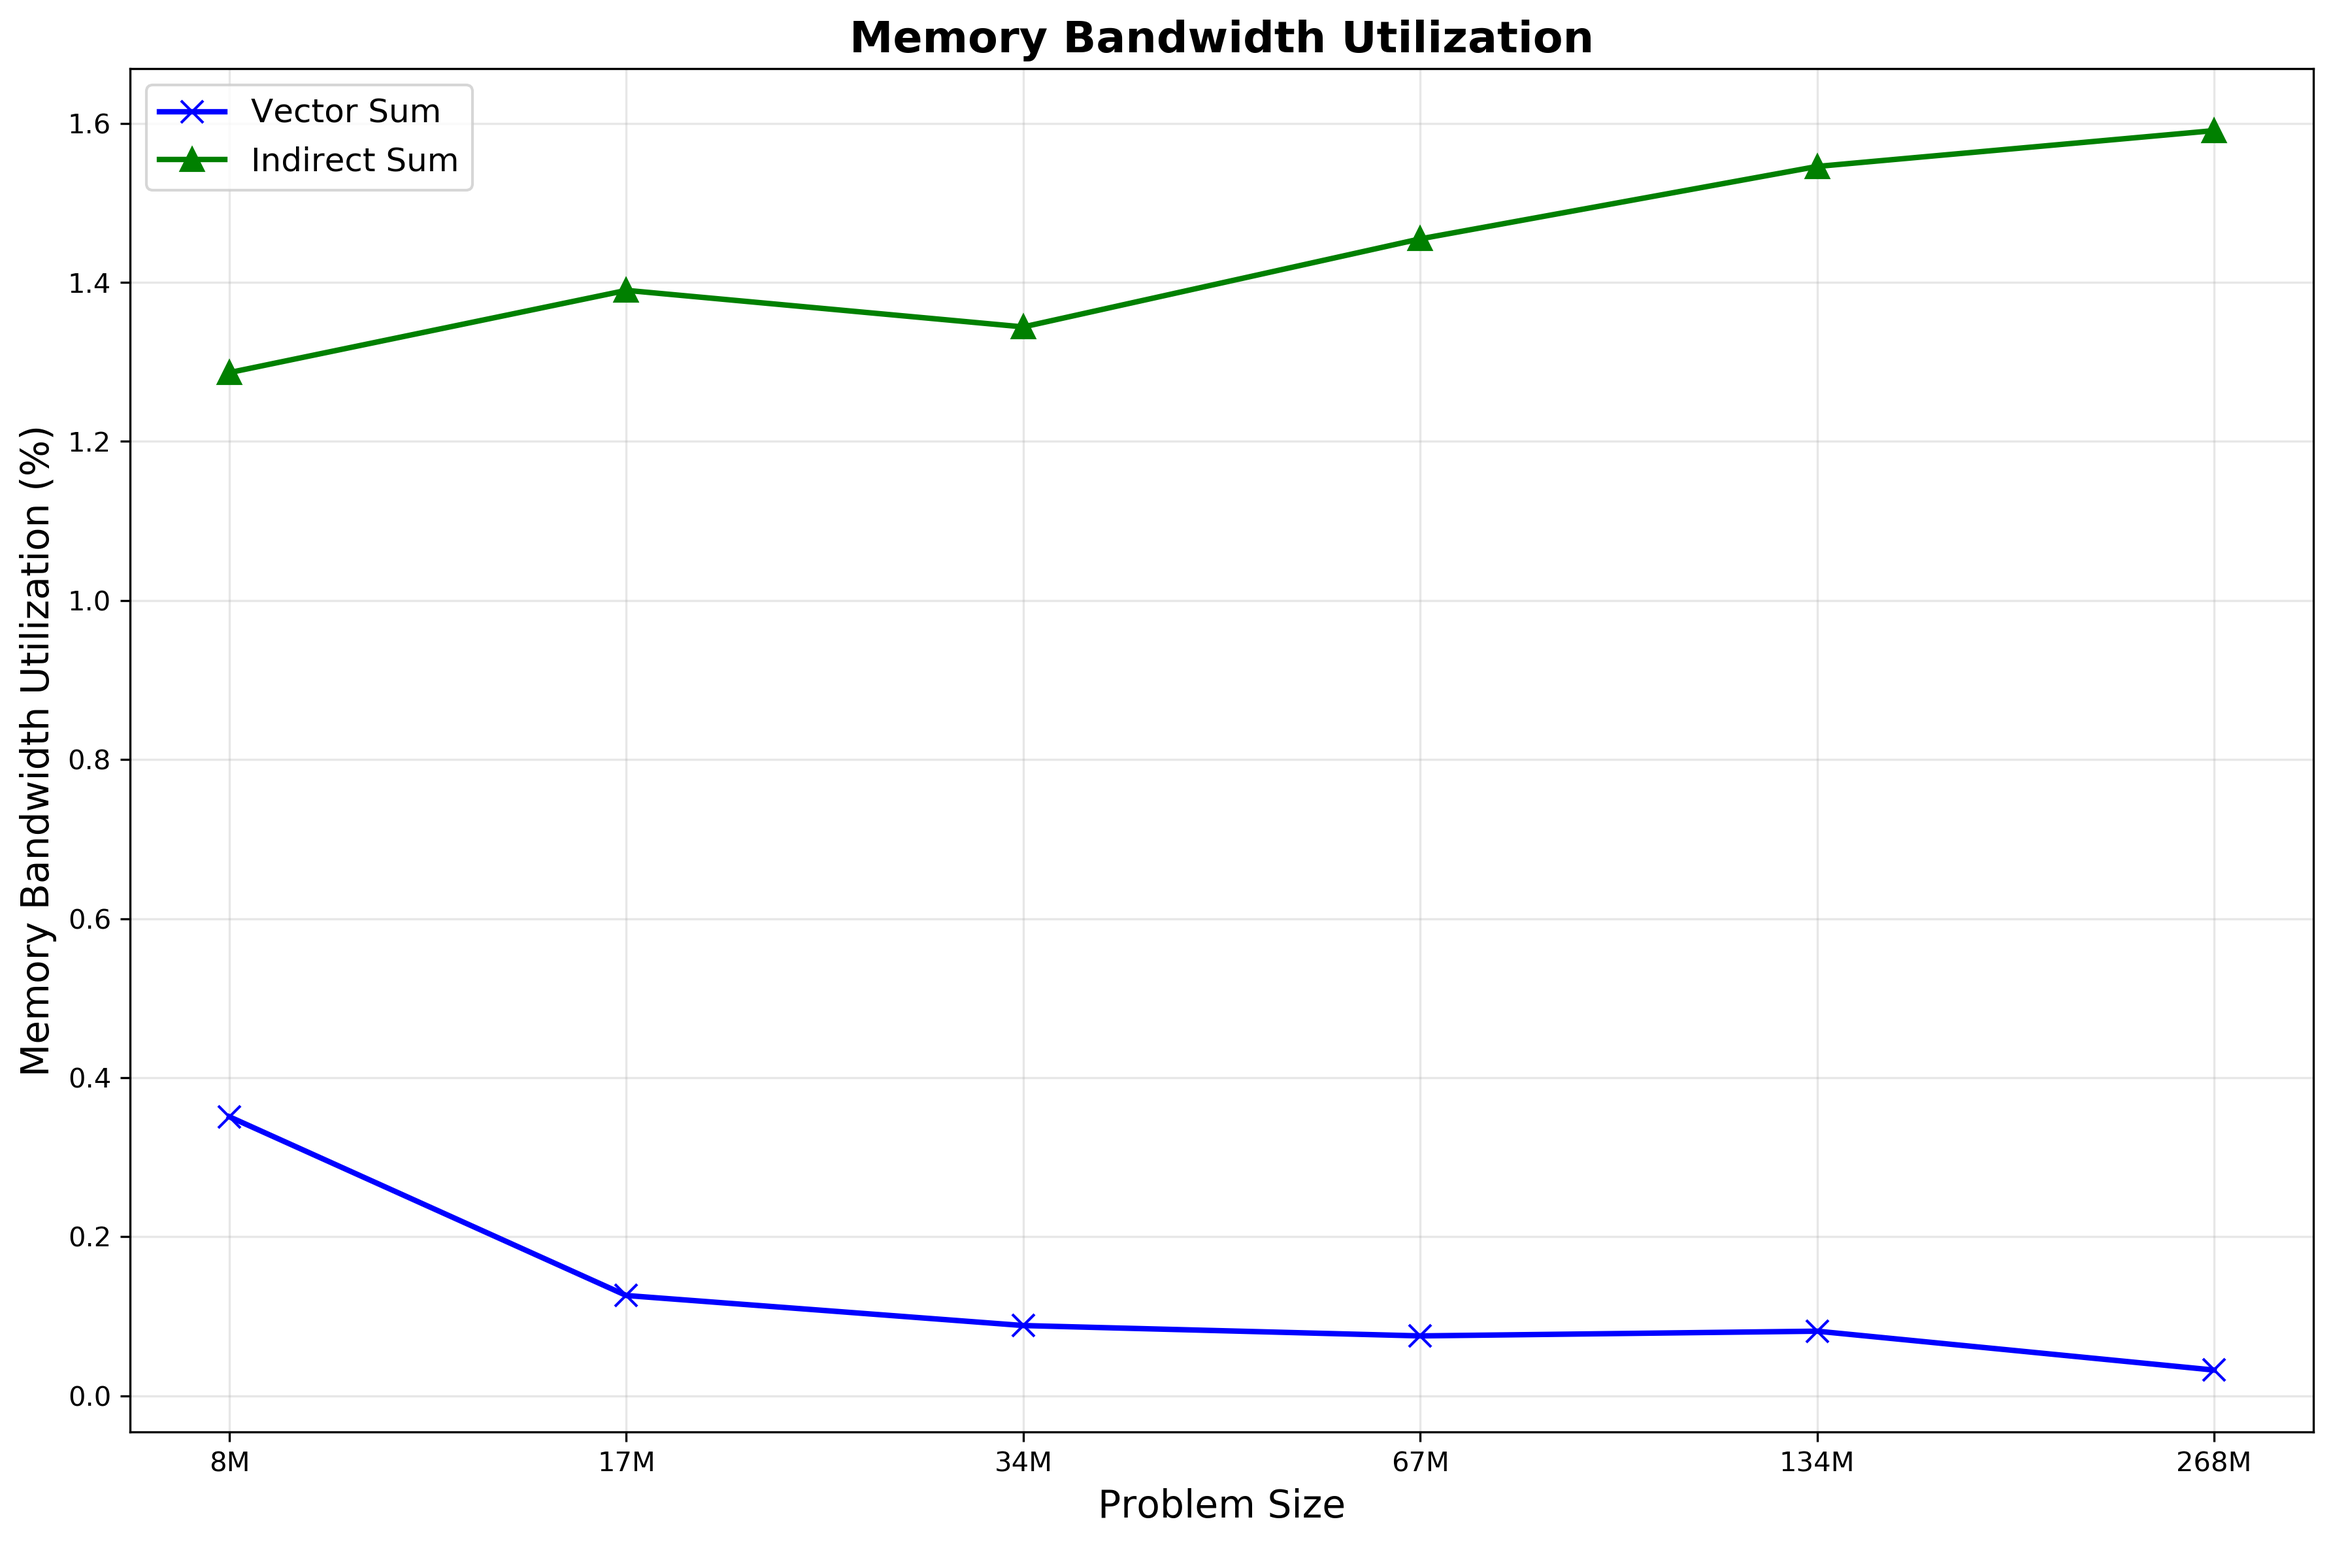
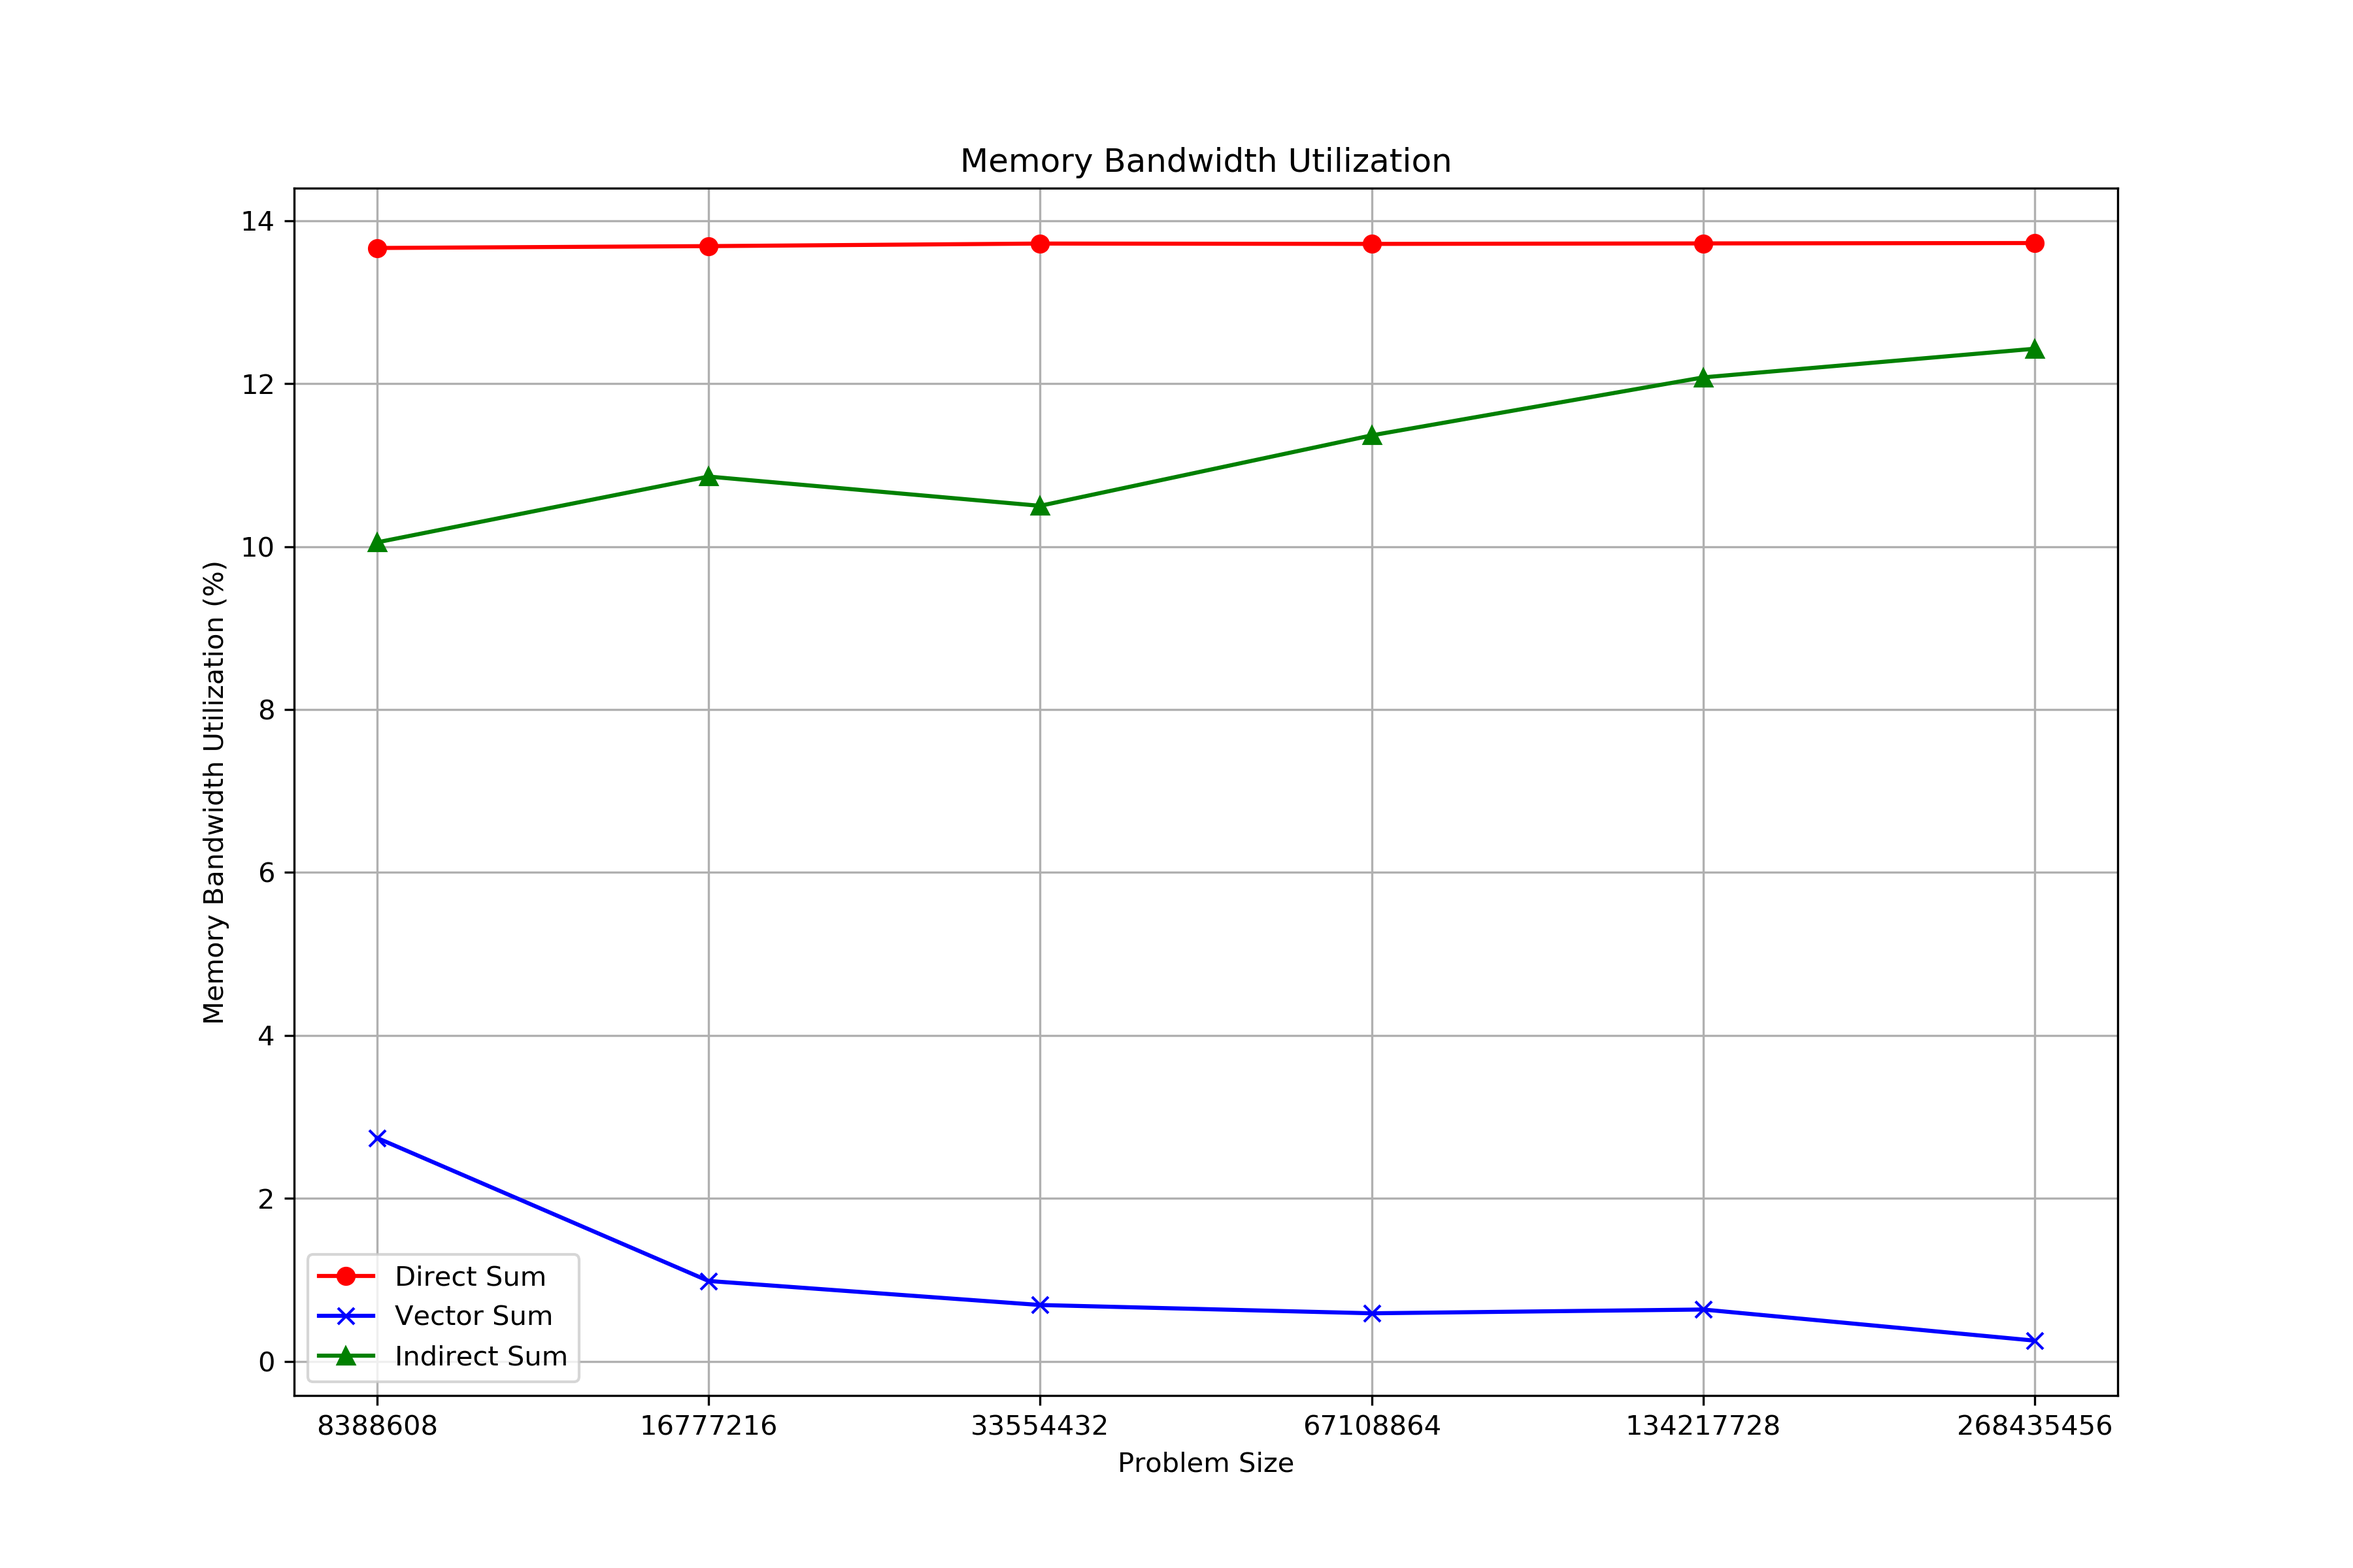
bug

diff --git a/plot_bandwidth.py b/plot_bandwidth.py
@@ -4,10 +4,8 @@ import matplotlib.pyplot as plt
 
 plot_fname = "bandwidth_comparison.png"
 
-# Perlmutter CPU peak memory bandwidth
-peak_bandwidth = 1.6e12  # 1.6 TB/s
+peak_bandwidth = 204800000000  
 
-# Load your actual performance data
 fname = "performance_data.csv"
 df = pd.read_csv(fname, comment="#")
 print(df)
@@ -15,54 +13,49 @@ print(df)
 var_names = list(df.columns)
 print("var names =", var_names)
 
-# Extract data
 problem_sizes = df[var_names[0]].values.tolist()
 direct_times = df[var_names[1]].values.tolist()
 vector_times = df[var_names[2]].values.tolist()
 indirect_times = df[var_names[3]].values.tolist()
 
-# Calculate memory bandwidth utilization (%)
+#calculate memory bandwidth utilization
+direct_bandwidth = []
 vector_bandwidth = []
 indirect_bandwidth = []
 
 for i in range(len(problem_sizes)):
     size = problem_sizes[i]
-    bytes_accessed = size * 8  # 8 bytes per int64_t
+    bytes_accessed = size * 8 
     
-    # Vector sum bandwidth
+    direct_bw = (bytes_accessed / direct_times[i]) / peak_bandwidth * 100
+    direct_bandwidth.append(direct_bw)
+    
     vector_bw = (bytes_accessed / vector_times[i]) / peak_bandwidth * 100
     vector_bandwidth.append(vector_bw)
     
-    # Indirect sum bandwidth
     indirect_bw = (bytes_accessed / indirect_times[i]) / peak_bandwidth * 100
     indirect_bandwidth.append(indirect_bw)
 
 plt.figure(figsize=(12, 8))
 
-# Updated title and labels
-plt.title("Memory Bandwidth Utilization", fontsize=16, fontweight='bold')
+plt.title("Memory Bandwidth Utilization")
 
 xlocs = [i for i in range(len(problem_sizes))]
-plt.xticks(xlocs, [f"{size/1e6:.0f}M" for size in problem_sizes])
+plt.xticks(xlocs, problem_sizes)
 
-# Plot bandwidth utilization
-plt.plot(vector_bandwidth, "b-x", linewidth=2, markersize=8, label="Vector Sum")
-plt.plot(indirect_bandwidth, "g-^", linewidth=2, markersize=8, label="Indirect Sum")
+plt.plot(direct_bandwidth, "r-o", label="Direct Sum")
+plt.plot(vector_bandwidth, "b-x", label="Vector Sum")
+plt.plot(indirect_bandwidth, "g-^", label="Indirect Sum")
 
-plt.xlabel("Problem Size", fontsize=14)
-plt.ylabel("Memory Bandwidth Utilization (%)", fontsize=14)
+plt.xlabel("Problem Size")
+plt.ylabel("Memory Bandwidth Utilization (%)")
 
-# Updated legend
-plt.legend(["Vector Sum", "Indirect Sum"], loc="best", fontsize=12)
 
-plt.grid(axis='both', alpha=0.3)
+plt.legend(["Direct Sum", "Vector Sum", "Indirect Sum"], loc="best")
 
-plt.tight_layout()
-plt.savefig(plot_fname, dpi=300, bbox_inches='tight')
+plt.grid(axis='both')
+
+plt.savefig(plot_fname, dpi=300)
 plt.show()
-
-print("Bandwidth Utilization Results:")
-for i, size in enumerate(problem_sizes):
-    print(f"Size {size/1e6:.0f}M: Vector={vector_bandwidth[i]:.2f}%, Indirect={indirect_bandwidth[i]:.2f}%")
 
 # EOF

diff --git a/plot_mflops.py b/plot_mflops.py
@@ -1,28 +1,9 @@
-"""
-
-E. Wes Bethel, Copyright (C) 2022
-
-October 2022
-
-Description: This code loads a .csv file and creates a 3-variable plot, and saves it to a file named "myplot.png"
-
-Inputs: the named file "sample_data_3vars.csv"
-
-Outputs: displays a chart with matplotlib
-
-Dependencies: matplotlib, pandas modules
-
-Assumptions: developed and tested using Python version 3.8.8 on macOS 11.6
-
-"""
-
 
 import pandas as pd
 import matplotlib.pyplot as plt
 
 plot_fname = "mflops_comparison.png"
 
-# Load your actual performance data
 fname = "performance_data.csv"
 df = pd.read_csv(fname, comment="#")
 print(df)
@@ -30,46 +11,35 @@ print(df)
 var_names = list(df.columns)
 print("var names =", var_names)
 
-# Extract data
 problem_sizes = df[var_names[0]].values.tolist()
 direct_times = df[var_names[1]].values.tolist()
 vector_times = df[var_names[2]].values.tolist()
 indirect_times = df[var_names[3]].values.tolist()
 
-# Calculate MFLOP/s
+#calculate MFLOP/s
 direct_mflops = [(size / 1e6) / time for size, time in zip(problem_sizes, direct_times)]
 vector_mflops = [(size / 1e6) / time for size, time in zip(problem_sizes, vector_times)]
 indirect_mflops = [(size / 1e6) / time for size, time in zip(problem_sizes, indirect_times)]
 
 plt.figure(figsize=(12, 8))
 
-# Updated title and labels
-plt.title("MFLOP/s Performance Comparison", fontsize=16, fontweight='bold')
+plt.title("MFLOP/s Performance Comparison")
 
 xlocs = [i for i in range(len(problem_sizes))]
-plt.xticks(xlocs, [f"{size/1e6:.0f}M" for size in problem_sizes])
+plt.xticks(xlocs, problem_sizes)
 
-# Plot MFLOP/s instead of time
-plt.plot(direct_mflops, "r-o", linewidth=2, markersize=8, label="Direct Sum")
-plt.plot(vector_mflops, "b-x", linewidth=2, markersize=8, label="Vector Sum")
-plt.plot(indirect_mflops, "g-^", linewidth=2, markersize=8, label="Indirect Sum")
+plt.plot(direct_mflops, "r-o", label="Direct Sum")
+plt.plot(vector_mflops, "b-x", label="Vector Sum")
+plt.plot(indirect_mflops, "g-^", label="Indirect Sum")
 
-plt.xlabel("Problem Size", fontsize=14)
-plt.ylabel("MFLOP/s", fontsize=14)
+plt.xlabel("Problem Size")
+plt.ylabel("MFLOP/s")
 
-# Updated legend
-plt.legend(["Direct Sum", "Vector Sum", "Indirect Sum"], loc="best", fontsize=12)
+plt.legend(["Direct Sum", "Vector Sum", "Indirect Sum"], loc="best")
 
-plt.grid(axis='both', alpha=0.3)
-plt.yscale("log")  # Log scale for better visualization
+plt.grid(axis='both')
 
-plt.tight_layout()
-plt.savefig(plot_fname, dpi=300, bbox_inches='tight')
+plt.savefig(plot_fname, dpi=300)
 plt.show()
-
-print("MFLOP/s Results:")
-for i, size in enumerate(problem_sizes):
-    print(f"Size {size/1e6:.0f}M: Direct={direct_mflops[i]:.1f}, Vector={vector_mflops[i]:.1f}, Indirect={indirect_mflops[i]:.1f}")
-
 
 # EOF

diff --git a/plot_latency.py b/plot_latency.py
@@ -4,7 +4,6 @@ import matplotlib.pyplot as plt
 
 plot_fname = "latency_comparison.png"
 
-# Load your actual performance data
 fname = "performance_data.csv"
 df = pd.read_csv(fname, comment="#")
 print(df)
@@ -12,53 +11,47 @@ print(df)
 var_names = list(df.columns)
 print("var names =", var_names)
 
-# Extract data
 problem_sizes = df[var_names[0]].values.tolist()
 direct_times = df[var_names[1]].values.tolist()
 vector_times = df[var_names[2]].values.tolist()
 indirect_times = df[var_names[3]].values.tolist()
 
-# Calculate memory latency (nanoseconds)
+#calculate memory latency
+direct_latency = []
 vector_latency = []
 indirect_latency = []
 
 for i in range(len(problem_sizes)):
     size = problem_sizes[i]
     
-    # Vector sum latency
-    vector_lat = (vector_times[i] / size) * 1e9  # Convert to nanoseconds
-    vector_latency.append(vector_lat)
+    direct_lat = (direct_times[i] / size) * 1e9
+    direct_latency.append(direct_lat)
     
-    # Indirect sum latency
-    indirect_lat = (indirect_times[i] / size) * 1e9  # Convert to nanoseconds
+    vector_lat = (vector_times[i] / size) * 1e9
+    vector_latency.append(vector_lat)
+
+    indirect_lat = (indirect_times[i] / size) * 1e9
     indirect_latency.append(indirect_lat)
 
 plt.figure(figsize=(12, 8))
 
-# Updated title and labels
-plt.title("Memory Latency Comparison", fontsize=16, fontweight='bold')
+plt.title("Memory Latency Comparison")
 
 xlocs = [i for i in range(len(problem_sizes))]
-plt.xticks(xlocs, [f"{size/1e6:.0f}M" for size in problem_sizes])
+plt.xticks(xlocs, problem_sizes)
 
-# Plot latency
-plt.plot(vector_latency, "b-x", linewidth=2, markersize=8, label="Vector Sum")
-plt.plot(indirect_latency, "g-^", linewidth=2, markersize=8, label="Indirect Sum")
+plt.plot(direct_latency, "r-o", label="Direct Sum")
+plt.plot(vector_latency, "b-x", label="Vector Sum")
+plt.plot(indirect_latency, "g-^", label="Indirect Sum")
 
-plt.xlabel("Problem Size", fontsize=14)
-plt.ylabel("Memory Latency (nanoseconds)", fontsize=14)
+plt.xlabel("Problem Size")
+plt.ylabel("Memory Latency (nanoseconds)")
 
-# Updated legend
-plt.legend(["Vector Sum", "Indirect Sum"], loc="best", fontsize=12)
+plt.legend(["Direct Sum", "Vector Sum", "Indirect Sum"], loc="best")
 
-plt.grid(axis='both', alpha=0.3)
+plt.grid(axis='both')
 
-plt.tight_layout()
-plt.savefig(plot_fname, dpi=300, bbox_inches='tight')
+plt.savefig(plot_fname, dpi=300)
 plt.show()
-
-print("Memory Latency Results:")
-for i, size in enumerate(problem_sizes):
-    print(f"Size {size/1e6:.0f}M: Vector={vector_latency[i]:.2f}ns, Indirect={indirect_latency[i]:.2f}ns")
 
 # EOF
